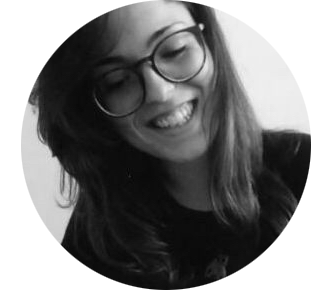
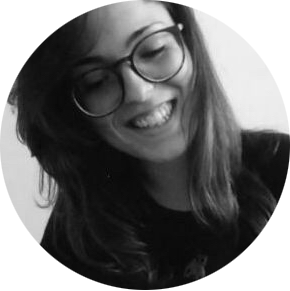
updates

diff --git a/10-about/index.html b/10-about/index.html
@@ -12,26 +12,22 @@
 <h1>About Us</h1>
 
 <a class="circular">
-		<img class="img-circular" src="../assets/img/ferragnicircle.png">
-		<a class="text-circular">
-<h2>Serena Panariti</h2></a> </a>
+		<img class="img-circular" src="../assets/img/serena.png"></a>
+<p><u>Serena Panariti</u></p>
 <p>Serena is a designer, visual artist and researcher from Italy. She studied Design and Multimedia at IUAV University of Venice, with an Erasmus period at IADE Creative University in Lisbon. She is always on the move to achieve something new to lern, possibly experiencing new intercultural environments. Recently besed in Amsterdam, she worked at the <em>PublishingLab.</em>by investigating the interrelation of Fashion and Social Media. Her goal is to be out of the box, while always crafting new ways to rethink herself.</p>
-
+<br>
 <a class="circular">
-		<img class="img-circular" src="../assets/img/serena.png">
-		<a class="text-circular">
-<h2>Nicola Romagnoli</h2></a> </a>
-
+		<img class="img-circular" src="../assets/img/nicola.png"></a>
+<p><u>Nicola Romagnoli</u></p>
 <p>Nicola is a filmmaker, writer, and researcher. He was born in Italy and immigrated to Canada at an early age. In Toronto, he studied film and worked in festival managing as well as various film publications. He currently lives in Amsterdam, where after graduating from UvA’s Masters in New Media and Digital Culture program, continued to pursue his interests in media theory and research at the <em>PublishingLab.</em> His work focuses on media sustainability and environmentality, media as political platform and historical materialism.</p>
-
+<br>
 <a class="circular">
-		<img class="img-circular" src="../assets/img/ferragnicircle.png">
-		<a class="text-circular">
-<h2>Claudia Giralt Monedero</h2></a> </a>
-
+		<img class="img-circular" src="../assets/img/claudia.png"></a>
+<p><u>Claudia Giralt Monedero</u></p>
 <p>Claudia is an artist and designer, also known as A cAt. She studied graphic design in Spain, Digital Media Design in England, with a master in Experimental Publishing, at Piet Zwart, Rotterdam, while working as an intern at <em>PublishingLab.</em> Apart from working as a graphic designer, the areas she explores are glitch, the subjectivity of reality, and the mere meaning of life. Glitch is approached as a mean to transmit other concepts. When it comes to the subjectivity of reality, she tries to go out of social constructed paradigms, questioning the main structures of believes on which society is build. Her approach is self-reflexive and self-explorative, with the idea that all answers can be found in oneself.</p>
 
-
+<br>
+<br>
 
 
 <h1>PublishingLab</h1>
